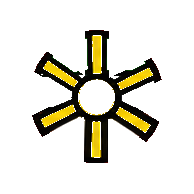
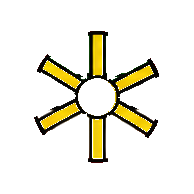
Update train images for improved visual quality and user customization

Changed region(s): [[0.1546, 0.1546, 0.8351, 0.866]]

diff --git a/HI02H04_L01_S01/HI02H04_L01_S01.html b/HI02H04_L01_S01/HI02H04_L01_S01.html
@@ -4050,7 +4050,9 @@ const SlideModules = {
       const STATION = slide.ref_scene === 'station';
       // [P13-14-FIGMA295] (2026-10-07) slide.ref_scene "figma" (pages 13-14 now): the Figma 295-26 layout - the train art of that frame
       // (assets/Images/train_figma.png, the frame's "Colorful Cartoon Train with White Coaches", 948x317 picture px = the frame's own
-      // px) shown 987.3px wide (x1.0414, the frame -> stage scale) and centred, standing on the frame's full-width rail (a stage
+      // px; [P13-14-TRAIN-PIC] since the evening of 2026-10-07 the user's own picture of that train, the same art with thinner
+      // strokes, laid onto the same 2170x725 canvas - so this grid and every box below still hold)
+      // shown 987.3px wide (x1.0414, the frame -> stage scale) and centred, standing on the frame's full-width rail (a stage
       // background, <style id="P13-14-FIGMA295-CSS">); the run is 118% of the picture so the nose enters from the stage's right edge
       // and the tail leaves past the left. The picture grid is no longer the 987x234 of the toy-train art: PIC_PW / PIC_PH below
       const FIGMA = slide.ref_scene === 'figma';
@@ -4076,14 +4078,17 @@ const SlideModules = {
         // The layer rides the train's runs (CSS .ref-wheels = refTrainIn / refTrainOut); the cut-out's spin (refWheelIn /
         // refWheelOut, the same curves) covers the run's distance — 92% of the 1025px panel width — rolling on the wheel's
         // outer radius r (picture px), anticlockwise as the train moves left. Built by the scratchpad make_wheels.py.
-        // [P13-14-FIGMA295]: the Figma train's two red six-spoke wheels - ring centres (130.9,250.3) / (209.8,250.4) picture px, ring
-        // r 29.7 inside / 36.3 outside, hub r 7.9 (a least-squares fit of the ring on the raw art; the scratchpad's
-        // figma295/make_figma_train_v3.py) - roll on the outer radius exactly as before. Only the six SPOKES (and their outlines) are
-        // cut out and spun (train_wheel_f1/f2.png, 84.8x84.8 picture px boxes at the raw art's resolution): the red ring and the yellow
-        // hub are round, so they stay in the body with the coupling rod, and what sits behind each spoke is painted into
-        // train_figma.png itself (inpainted row by row), so no separate backplate - bg is null here
-        const WHEELS = FIGMA ? [{ cx:130.9, cy:250.3, r:36.3, hs:42.4, src:'train_wheel_f1', bg:null },
-                                { cx:209.8, cy:250.4, r:36.3, hs:42.4, src:'train_wheel_f2', bg:null }]
+        // [P13-14-FIGMA295]: the Figma train's two red six-spoke wheels roll on the outer radius exactly as before. Only the six SPOKES
+        // (with their outlines) are cut out and spun (train_wheel_f1/f2.png, 84.8x84.8 picture px boxes at the raw art's resolution):
+        // the red ring and the yellow hub are round, so they stay in the body with the coupling rod, and what sits behind each spoke
+        // is painted into train_figma.png itself, so no separate backplate - bg is null here.
+        // [P13-14-TRAIN-PIC] (2026-10-07, the user's picture): ring centres (130.6,250.3) / (210.0,250.3) picture px, a least-squares
+        // fit of the red ring on the user's art laid onto the old canvas (ring r 29.2 inside / 36.8 outside; r stays 36.3 here so
+        // --turn, the spin, is exactly what it was). The split (the scratchpad's wheels/make_figma_train_v4.py): the six spoke bars
+        // are repainted by radial zone - hub yellow / outline black / the backdrop colour of the same ROW (green cab, grey chassis,
+        // black line, transparent below) / rim-outline black / red - so nothing of a spoke stays behind the spinning ones
+        const WHEELS = FIGMA ? [{ cx:130.6, cy:250.3, r:36.3, hs:42.4, src:'train_wheel_f1', bg:null },
+                                { cx:210.0, cy:250.3, r:36.3, hs:42.4, src:'train_wheel_f2', bg:null }]
                              : [{ cx:204.2, cy:174.4, r:32.9, hs:27, src:'train_wheel_1', bg:'train_wheel_bg_1' },
                                 { cx:273.1, cy:174.3, r:32.9, hs:27, src:'train_wheel_2', bg:'train_wheel_bg_2' }];
         const wheels = document.createElement('div'); wheels.className = 'ref-wheels';
@@ -9199,8 +9204,11 @@ html.rotated body.station-page::before{inset:auto;left:50%;top:50%;width:100vh;h
    948x317 at (166,208) -> 987.3x330.1 at (172.9,216.6): centred on the stage) with the frame's own vectors over its three white
    coaches - a white dashed drop box (180x115, 2px dashed rgba(0,0,0,.6), r8) at y 264 and a cream #FCF5DD strip (180x58, r8) at
    y 382 per coach, x 452 / 672 / 892 - drawn here by the module as .ref-coachart (they ride the train). The art is the frame's raw
-   image (assets/Images/train_figma.png, 2170x725 = 2.289 raw px per picture px, transparent around the train), its two loco wheel
-   discs replaced by what sits behind them so the cut-out wheels (train_wheel_f1/f2.png) can spin on top exactly as before.
+   image (assets/Images/train_figma.png, 2170x725 = 2.289 raw px per picture px, transparent around the train), its two loco wheels'
+   spokes replaced by what sits behind them so the cut-out spokes (train_wheel_f1/f2.png) can spin on top exactly as before.
+   [P13-14-TRAIN-PIC] (2026-10-07 evening, user request "use this train instead"): train_figma.png is now the user's own picture of
+   the same train (2172x724, the same drawing with thinner strokes) pasted at (-1,+2) onto that 2170x725 canvas - its wheel centres
+   land within 0.3 picture px of the frame export's, so this layout, the coach art and the grid are untouched; only the pixels changed.
    The picture's own rail band is gone with the grid (the module's PIC_PW / PIC_PH = 948 / 317), so the hidden .ref-rail copy keeps
    its box for the drop test and the glide hint, and the train copy is not clipped. Everything else is the station layout, value for
    value: the slide host is the positioned box under the 140px header row (tops below = stage y - 140), the panel is a transparent,
